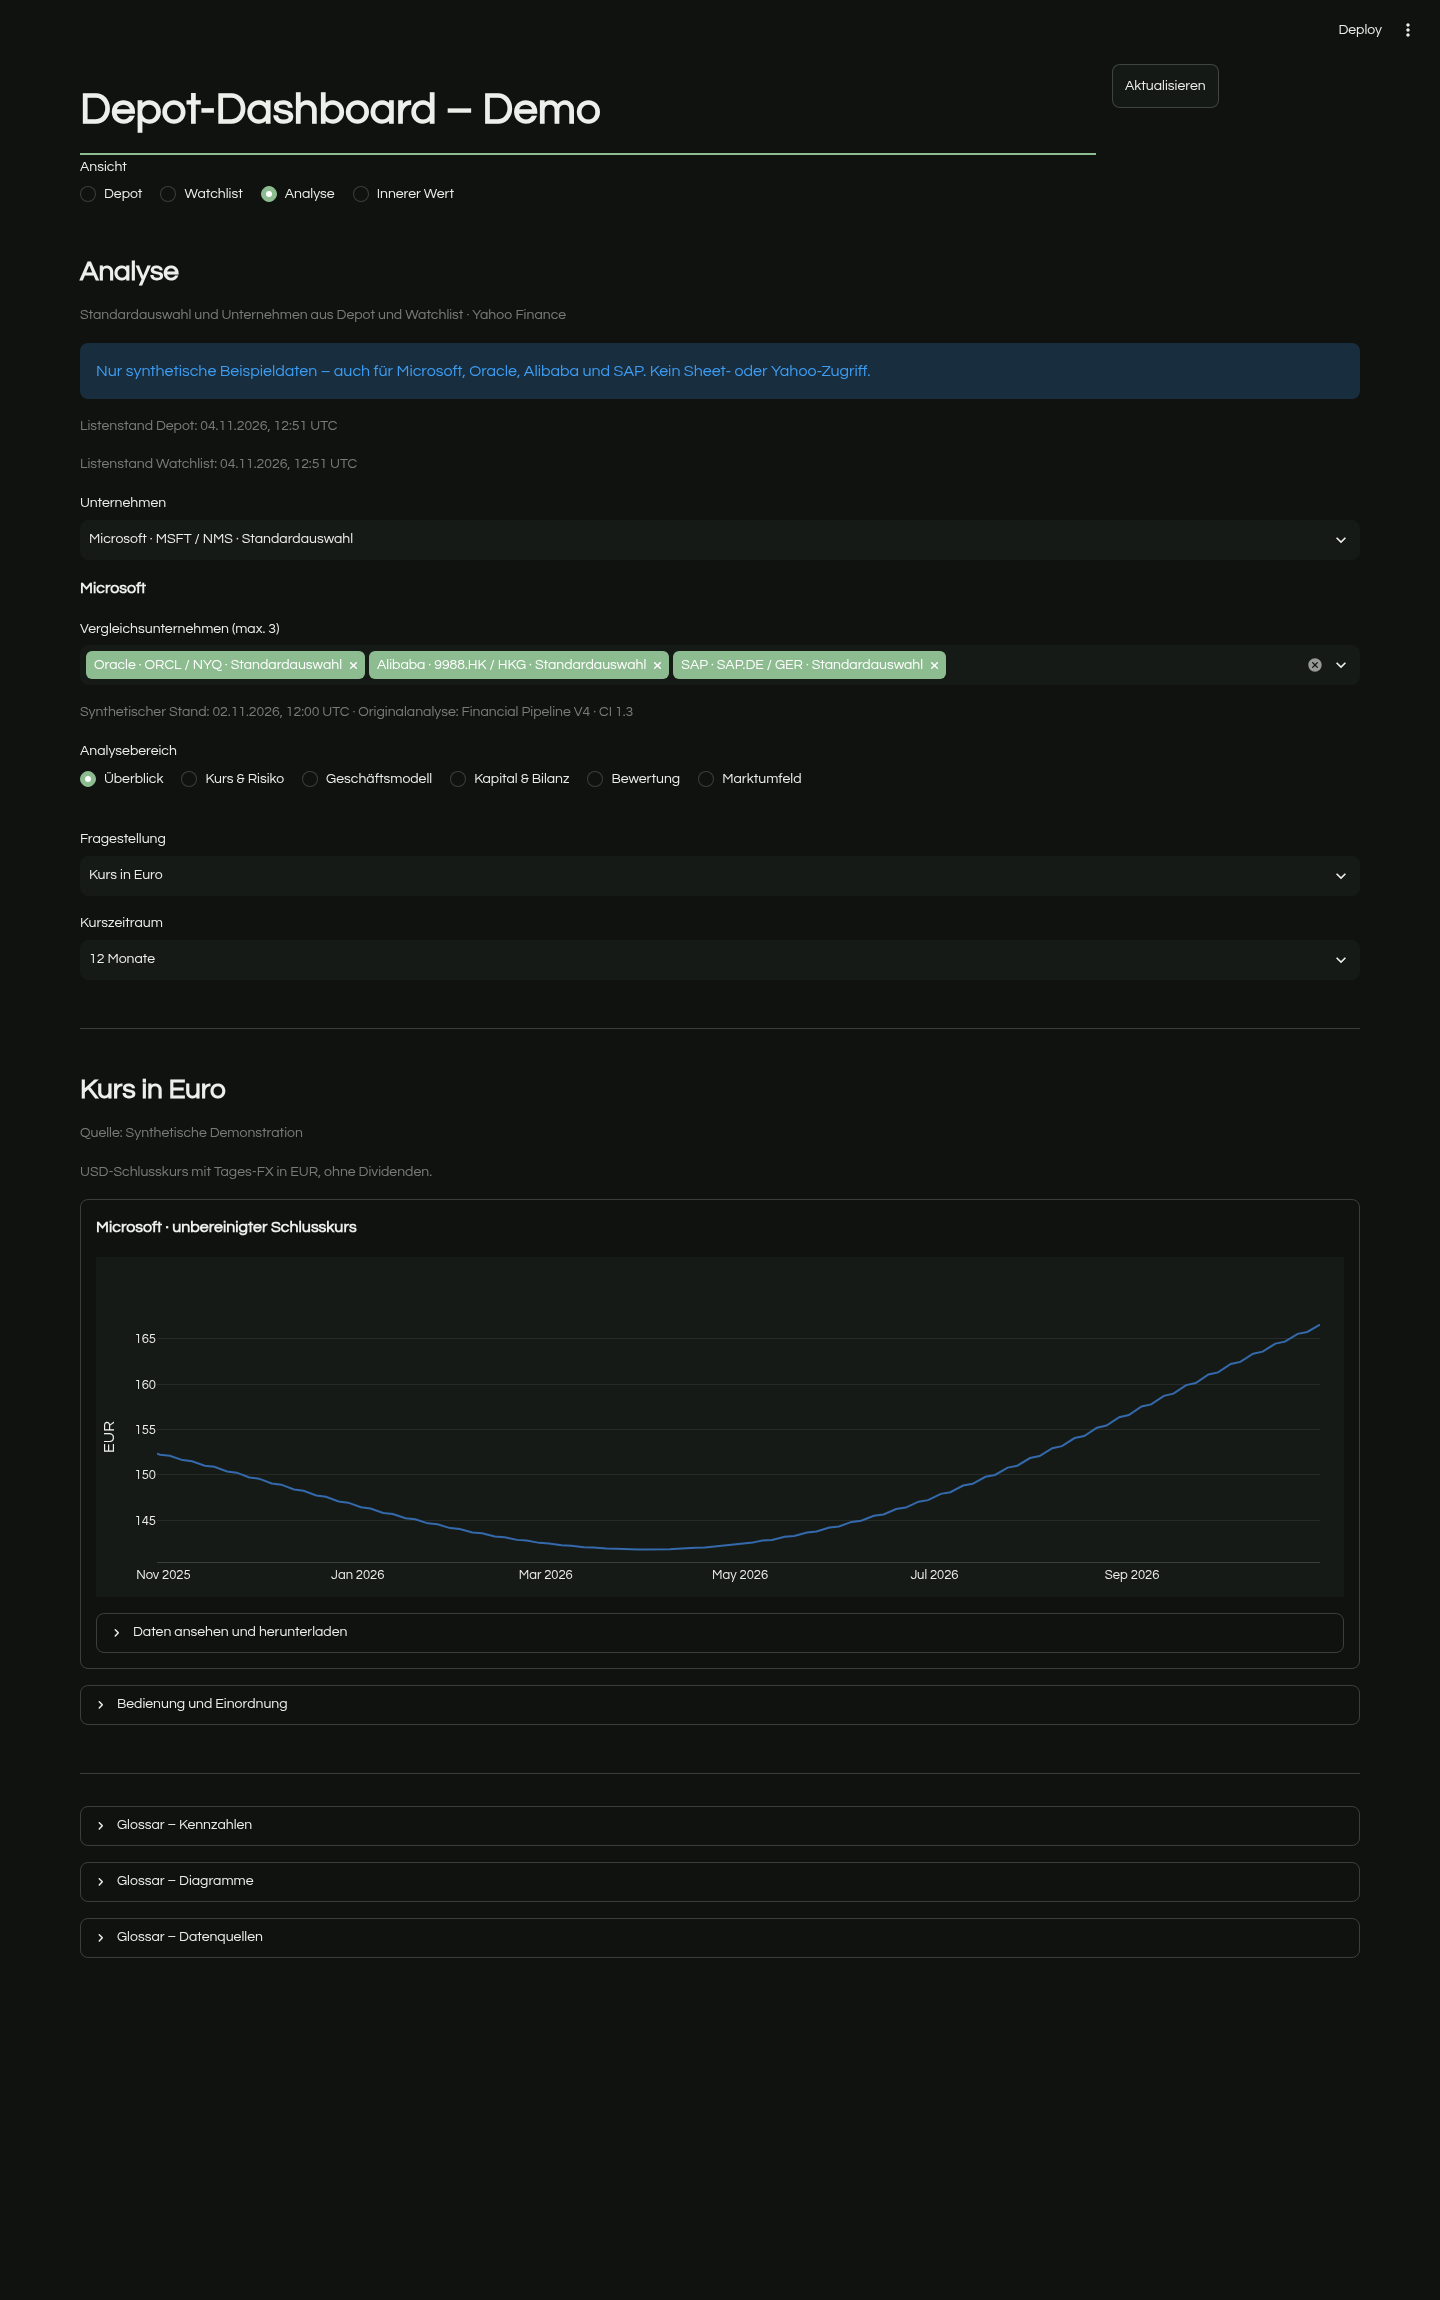
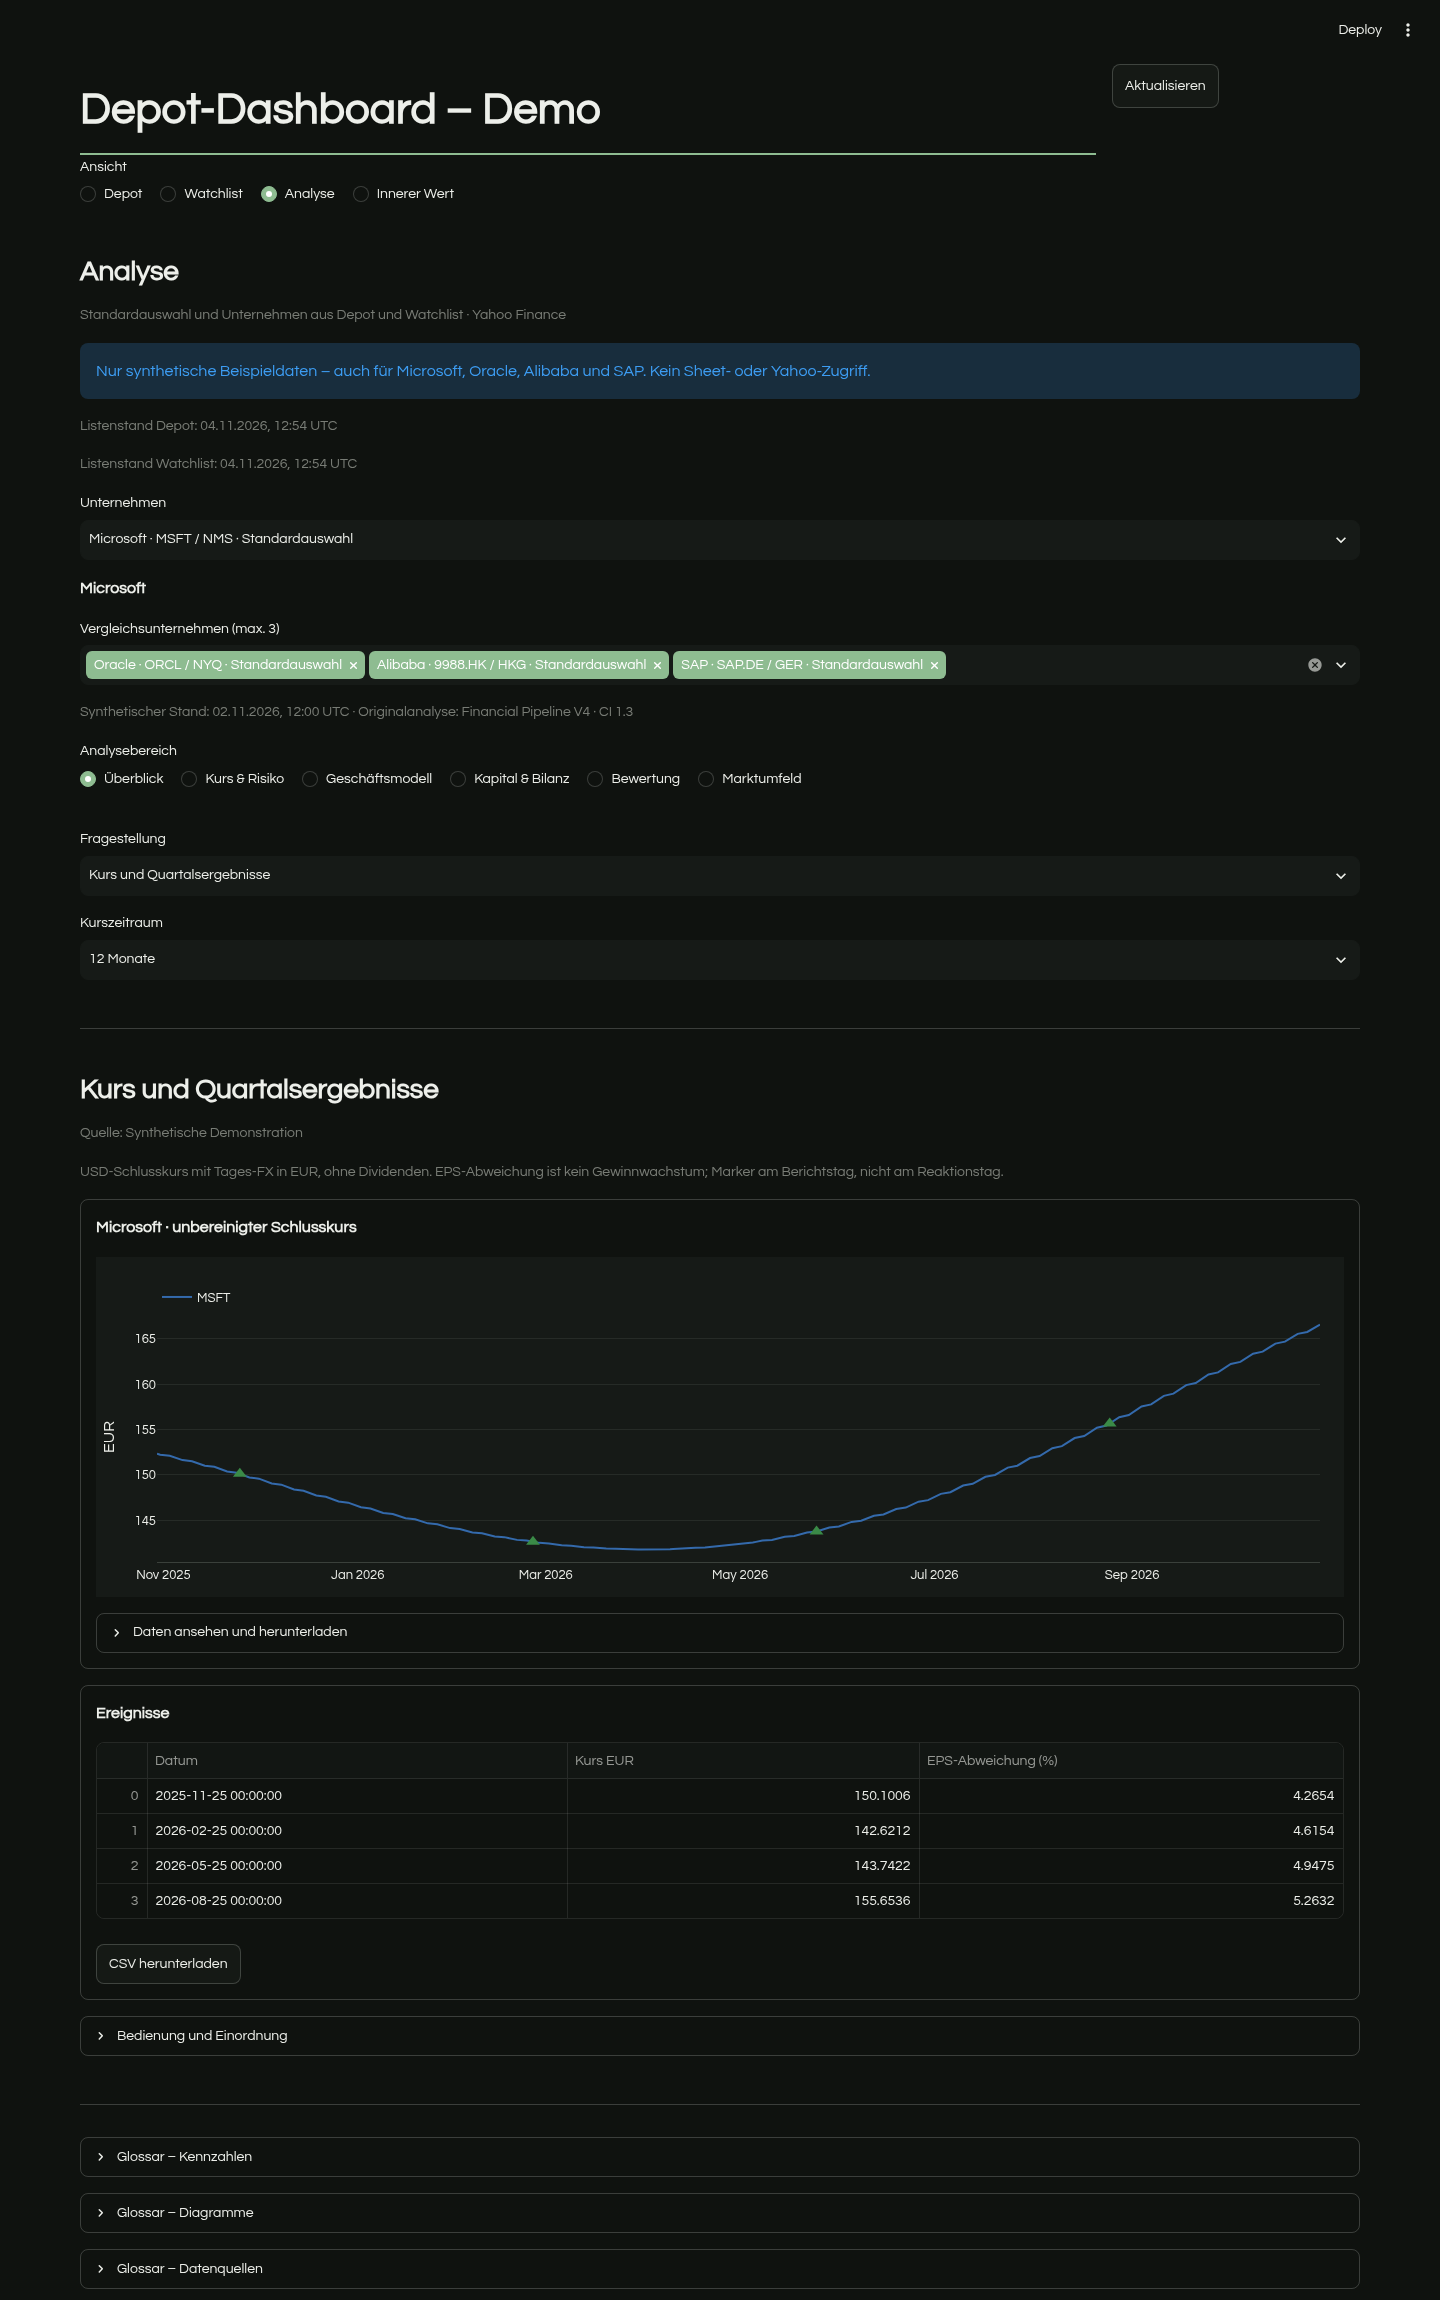
fix: open Analyse with the stock price and quarterly earnings chart
Make quarterly earnings the first overview topic while retaining the plain price chart as the next option. Update documentation, preview and the navigation check.

Validation: 59 exploration tests passed; repository-wide Ruff passed; desktop/mobile browser checks confirmed earnings markers on the initial chart.

diff --git a/tests/test_exploration.py b/tests/test_exploration.py
@@ -122,7 +122,7 @@ def test_ui_all_topics_offline_and_return_to_depot(monkeypatch):
     app.radio(key=AREA_RADIO_KEY).set_value(AREA).run()
     assert not app.exception
     assert app.radio(key=GROUP_KEY).value == "Überblick"
-    assert app.selectbox(key=f"{TOPIC_KEY}.Überblick").value == 1
+    assert app.selectbox(key=f"{TOPIC_KEY}.Überblick").value == 2
     assert app.get("plotly_chart")
     for group, topics in GROUPS.items():
         app.radio(key=GROUP_KEY).set_value(group).run()

diff --git a/src/portfolio_dashboard/exploration/charts.py b/src/portfolio_dashboard/exploration/charts.py
@@ -31,8 +31,8 @@ from .calculations import (
 from .data import currency_code, dates, prices, statement
 
 GROUPS = {
-    "Überblick": (1, 5, 13),
-    "Kurs & Risiko": (6, 7, 8, 4, 2, 11),
+    "Überblick": (2, 1, 5, 13),
+    "Kurs & Risiko": (6, 7, 8, 4, 11),
     "Geschäftsmodell": (10, 28, 9, 3, 29, 22),
     "Kapital & Bilanz": (20, 21, 23, 24, 14),
     "Bewertung": (26, 12, 25, 27),

diff --git a/src/portfolio_dashboard/exploration/glossary.md b/src/portfolio_dashboard/exploration/glossary.md
@@ -37,6 +37,7 @@ Die Nummern verweisen weiterhin auf die ursprünglichen V4-Themen.
 
 | Nr. | Diagramm | Was lässt sich daraus ablesen? |
 |---|---|---|
+| 02 | Kurs und Quartalsergebnisse | Startgrafik: Wie verlief der Kurs um veröffentlichte Quartalszahlen, und wie lagen die Gewinne gegenüber den Schätzungen? |
 | 01 | Kurs in Euro | Wie hat sich der Aktienkurs in EUR entwickelt? Einstieg mit wählbarem Zeitraum. |
 | 05 | Was wurde aus 100? | Wie hätten sich gleich große Anfangsbeträge in den ausgewählten Aktien entwickelt? Alle starten bei 100. |
 | 13 | Vergleich mit dem Markt | Wie steht die Aktie gegenüber den US-Referenzen S&P 500 und Nasdaq-100 da? Kein lokaler Marktindex. |
@@ -49,7 +50,6 @@ Die Nummern verweisen weiterhin auf die ursprünglichen V4-Themen.
 | 07 | Verlust seit dem Hoch | Wie weit liegt der Kurs unter seinem bisher beobachteten Hoch, und wie lange dauern Erholungen? |
 | 08 | Rendite und Kursrisiko | Wie stehen Ertrag, Schwankungen und Verluste der verglichenen Aktien zueinander? |
 | 04 | Kerzen und Volumen | Wie verliefen einzelne Handelstage vom Eröffnungs- bis zum Schlusskurs, und wie viel wurde gehandelt? |
-| 02 | Kurs und Quartalsergebnisse | Wann wurden Gewinne gemeldet und wie lagen sie gegenüber den Schätzungen? |
 | 11 | Reaktion auf Quartalszahlen | Wie bewegte sich die Aktie um Ergebnisveröffentlichungen gegenüber dem Markt? Keine Aussage über die Ursache. |
 
 ### Geschäftsmodell

diff --git a/docs/EXPLORATION.md b/docs/EXPLORATION.md
@@ -64,11 +64,13 @@ fehlgeschlagenen Abrufen und nicht verfügbaren Analysen erreichbar.
 ## Gestaltung und Navigation
 
 Die Reihenfolge führt vom groben Überblick zum Deep Dive. Beim ersten Öffnen
-startet die Ansicht mit dem Aktienkurs in EUR:
+startet die Ansicht mit **Kurs und Quartalsergebnisse**: Aktienkurs in EUR
+mit Markierungen der veröffentlichten Quartalszahlen und EPS-Abweichungen:
 
-1. **Überblick:** Kursverlauf, Vergleich der gewählten Aktien ab 100, Marktvergleich.
+1. **Überblick:** Kurs und Quartalsergebnisse, reiner Kursverlauf,
+   Vergleich der gewählten Aktien ab 100, Marktvergleich.
 2. **Kurs & Risiko:** Monatsrenditen, Drawdown, Rendite/Risiko, Kerzen/Volumen,
-   Quartalsergebnisse und Reaktion auf Veröffentlichungen.
+   Reaktion auf Veröffentlichungen.
 3. **Geschäftsmodell:** Wachstum/Margen, Segmente, Jahres- und Quartalscashflow,
    Cashflow-Überleitung und Gewinnqualität.
 4. **Kapital & Bilanz:** Bilanz/Zinsdeckung, ROIC, Kapitalverwendung,

diff --git a/README.md b/README.md
@@ -23,7 +23,8 @@ Beim Öffnen lädt **Microsoft** automatisch mit **Oracle, Alibaba und SAP** als
 Vergleich. Unternehmen aus **Depot und Watchlist im Google Sheet** ergänzen die
 Auswahl automatisch; Unternehmen und bis zu drei Vergleichsaktien lassen sich
 darunter ändern. Nicht verfügbare Daten zeigen **n. v.**
-oder **Noch nicht angebunden**. Der Einstieg zeigt den Aktienkurs; die Themen führen
+oder **Noch nicht angebunden**. Der Einstieg zeigt den Aktienkurs mit Quartalszahlen;
+die Themen führen
 vom Überblick zum Deep Dive. Drei getrennte Glossare für Kennzahlen, Diagramme und
 Datenquellen stehen am Seitenende.
 Die gemeinsame dunkle CI gilt auch für die Treemap.
